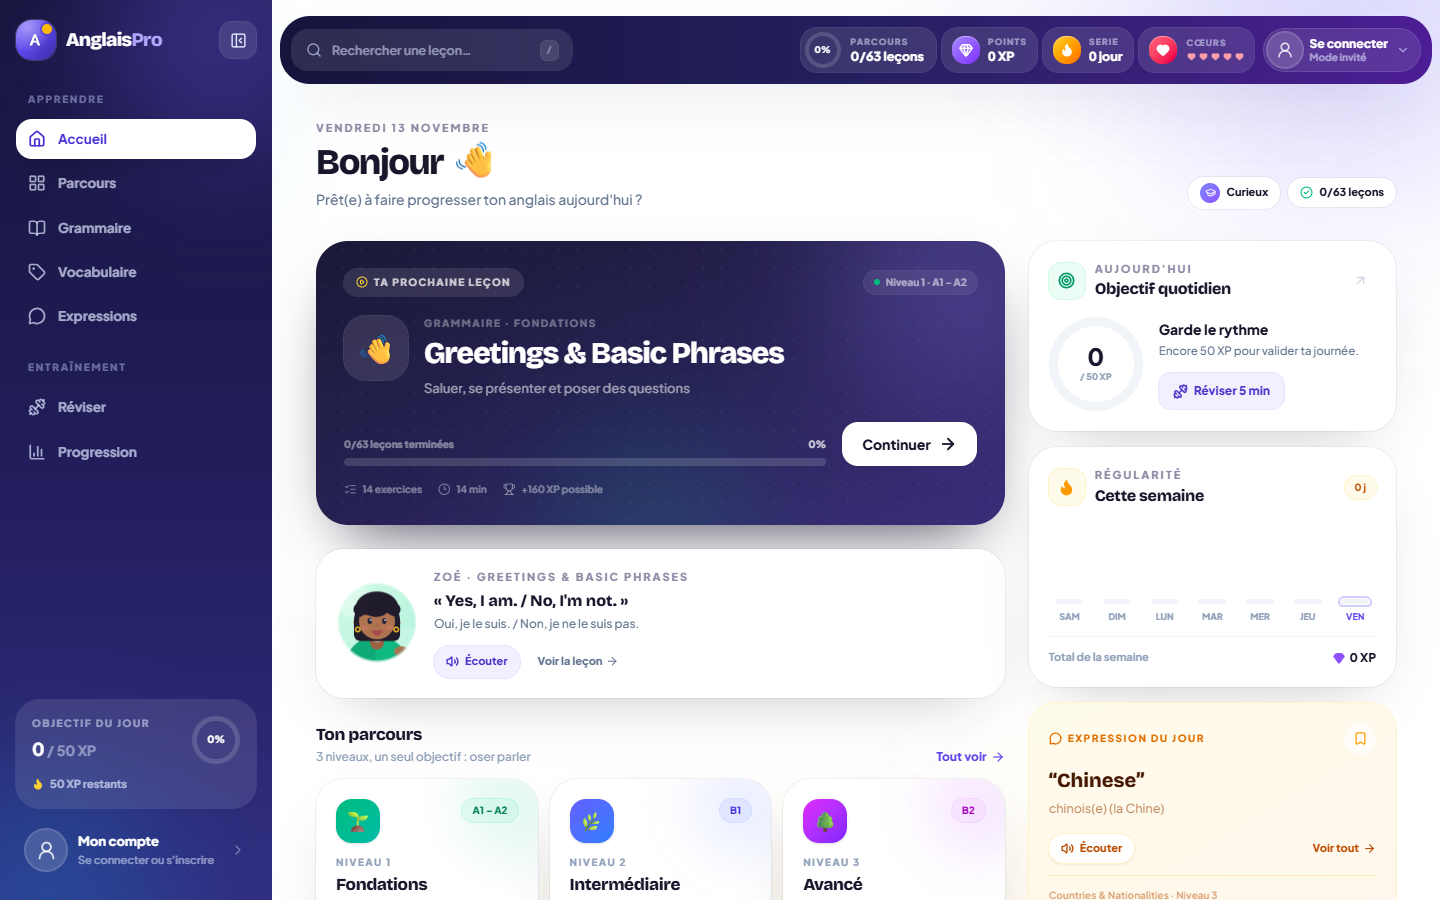
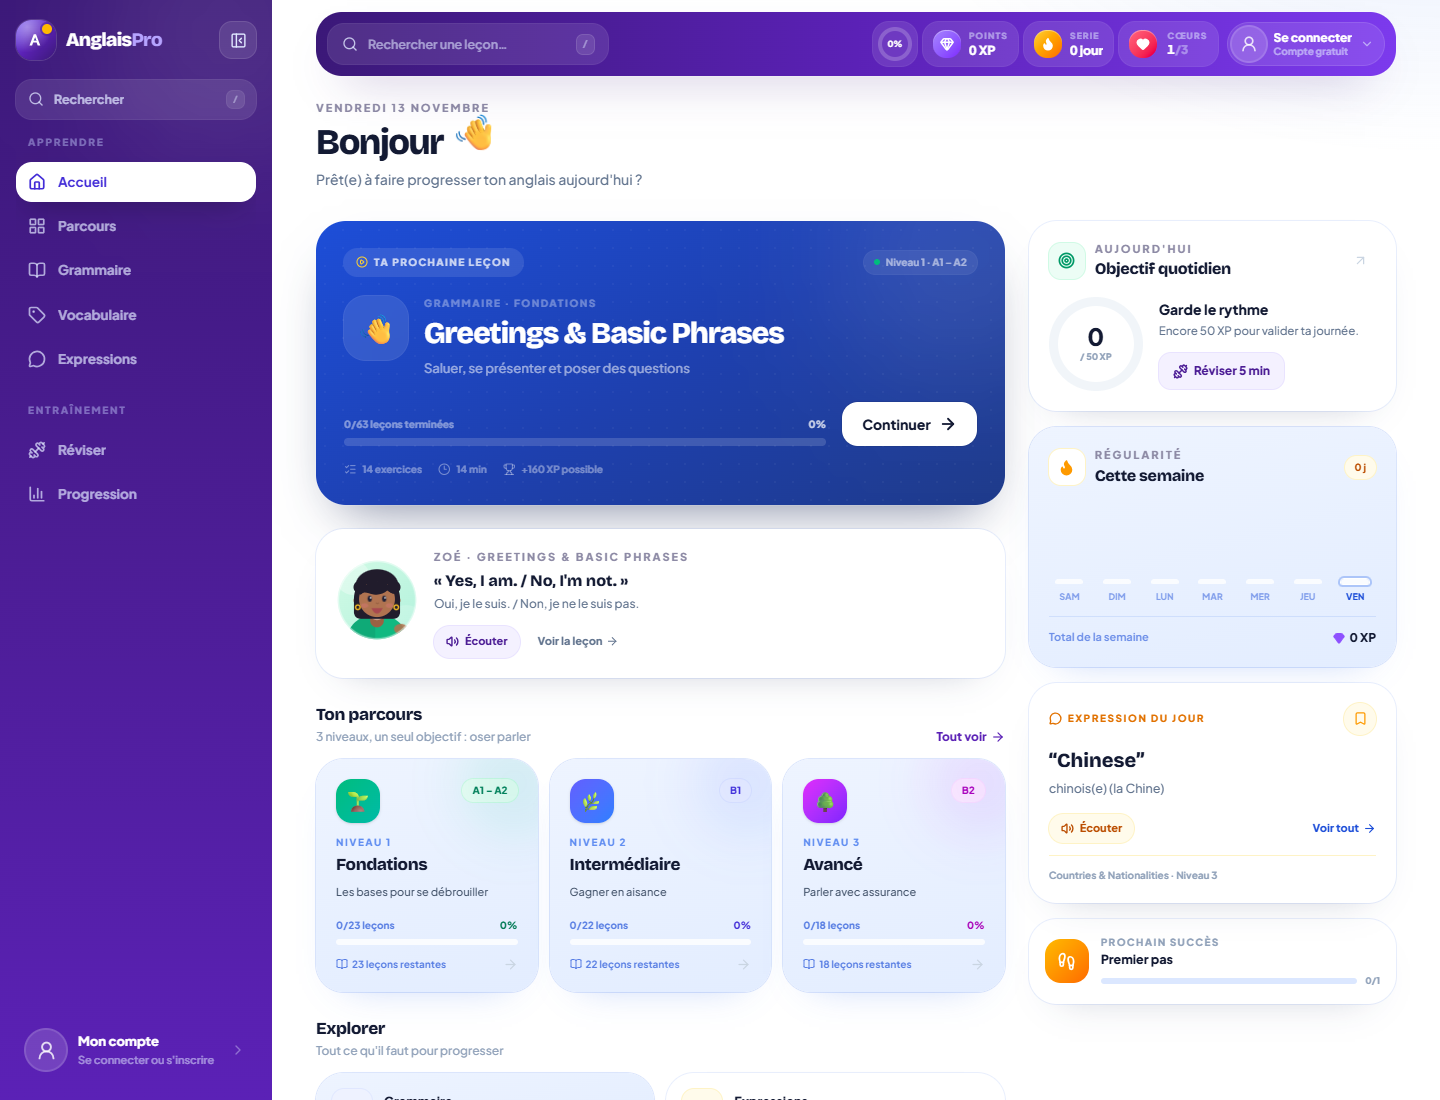
docs: apercus a jour et fonctionnalites alignees sur les coeurs et la recherche

diff --git a/README.md b/README.md
@@ -26,15 +26,16 @@ Une application web **mobile-first** pensée pour les francophones qui veulent p
 - **63 leçons complètes** — chaque leçon combine théorie claire (encadrés, tableaux, phrases clés) et quiz interactif.
 - **4 types d'exercices** — choix multiple, saisie de texte, reconstruction de phrases par tuiles et association de paires.
 - **Bibliothèque filtrable** — recherche instantanée, filtres par niveau, catégorie et statut (à faire / terminé / favoris).
+- **Recherche globale** — la barre haute (ou les raccourcis `/` et Ctrl/Cmd + K) retrouve une leçon ou une expression, puis l'ouvre au clavier.
 - **Grammaire & vocabulaire** — 17 fiches de grammaire et 14 thèmes de vocabulaire, consultables hors leçon.
 - **910 expressions utiles** — avec traduction, note d'usage et écoute audio.
 - **Révision ciblée** — sessions par compétence, marathon de 20 questions et flashcards.
-- **Progression motivante** — XP, cœurs, série quotidienne, objectif journalier, rangs et succès.
+- **Progression motivante** — XP, cœurs qui se gagnent en terminant des leçons (3 maximum), série quotidienne, objectif journalier, rangs et succès.
 - **Audio intégré** — prononciation via la synthèse vocale du navigateur (activable/désactivable).
 - **Coachs illustrés** — quatre personnages animés (Mia, Leo, Zoé et Sam) accompagnent les expressions, le vocabulaire et les conseils avec des bulles d'explication.
 - **Mobile d'abord** — barre haute arrondie qui reste collée en haut pendant le défilement, sidebar unique qui se referme en rail d'icônes (tiroir animé sur mobile, panneau fixe sur ordinateur).
 - **Compte utilisateur** — inscription email / mot de passe ou Google, photo de profil, session sécurisée.
-- **Progression synchronisée** — Neon Postgres conserve XP, cœurs, série, leçons et favoris entre appareils.
+- **Progression sauvegardée** — une base Postgres conserve XP, cœurs, série, leçons et favoris entre appareils.
 - **Mode invité complet** — on commence à apprendre immédiatement, puis on crée son compte quand on veut, sans rien perdre.
 
 ## 📚 Contenu
